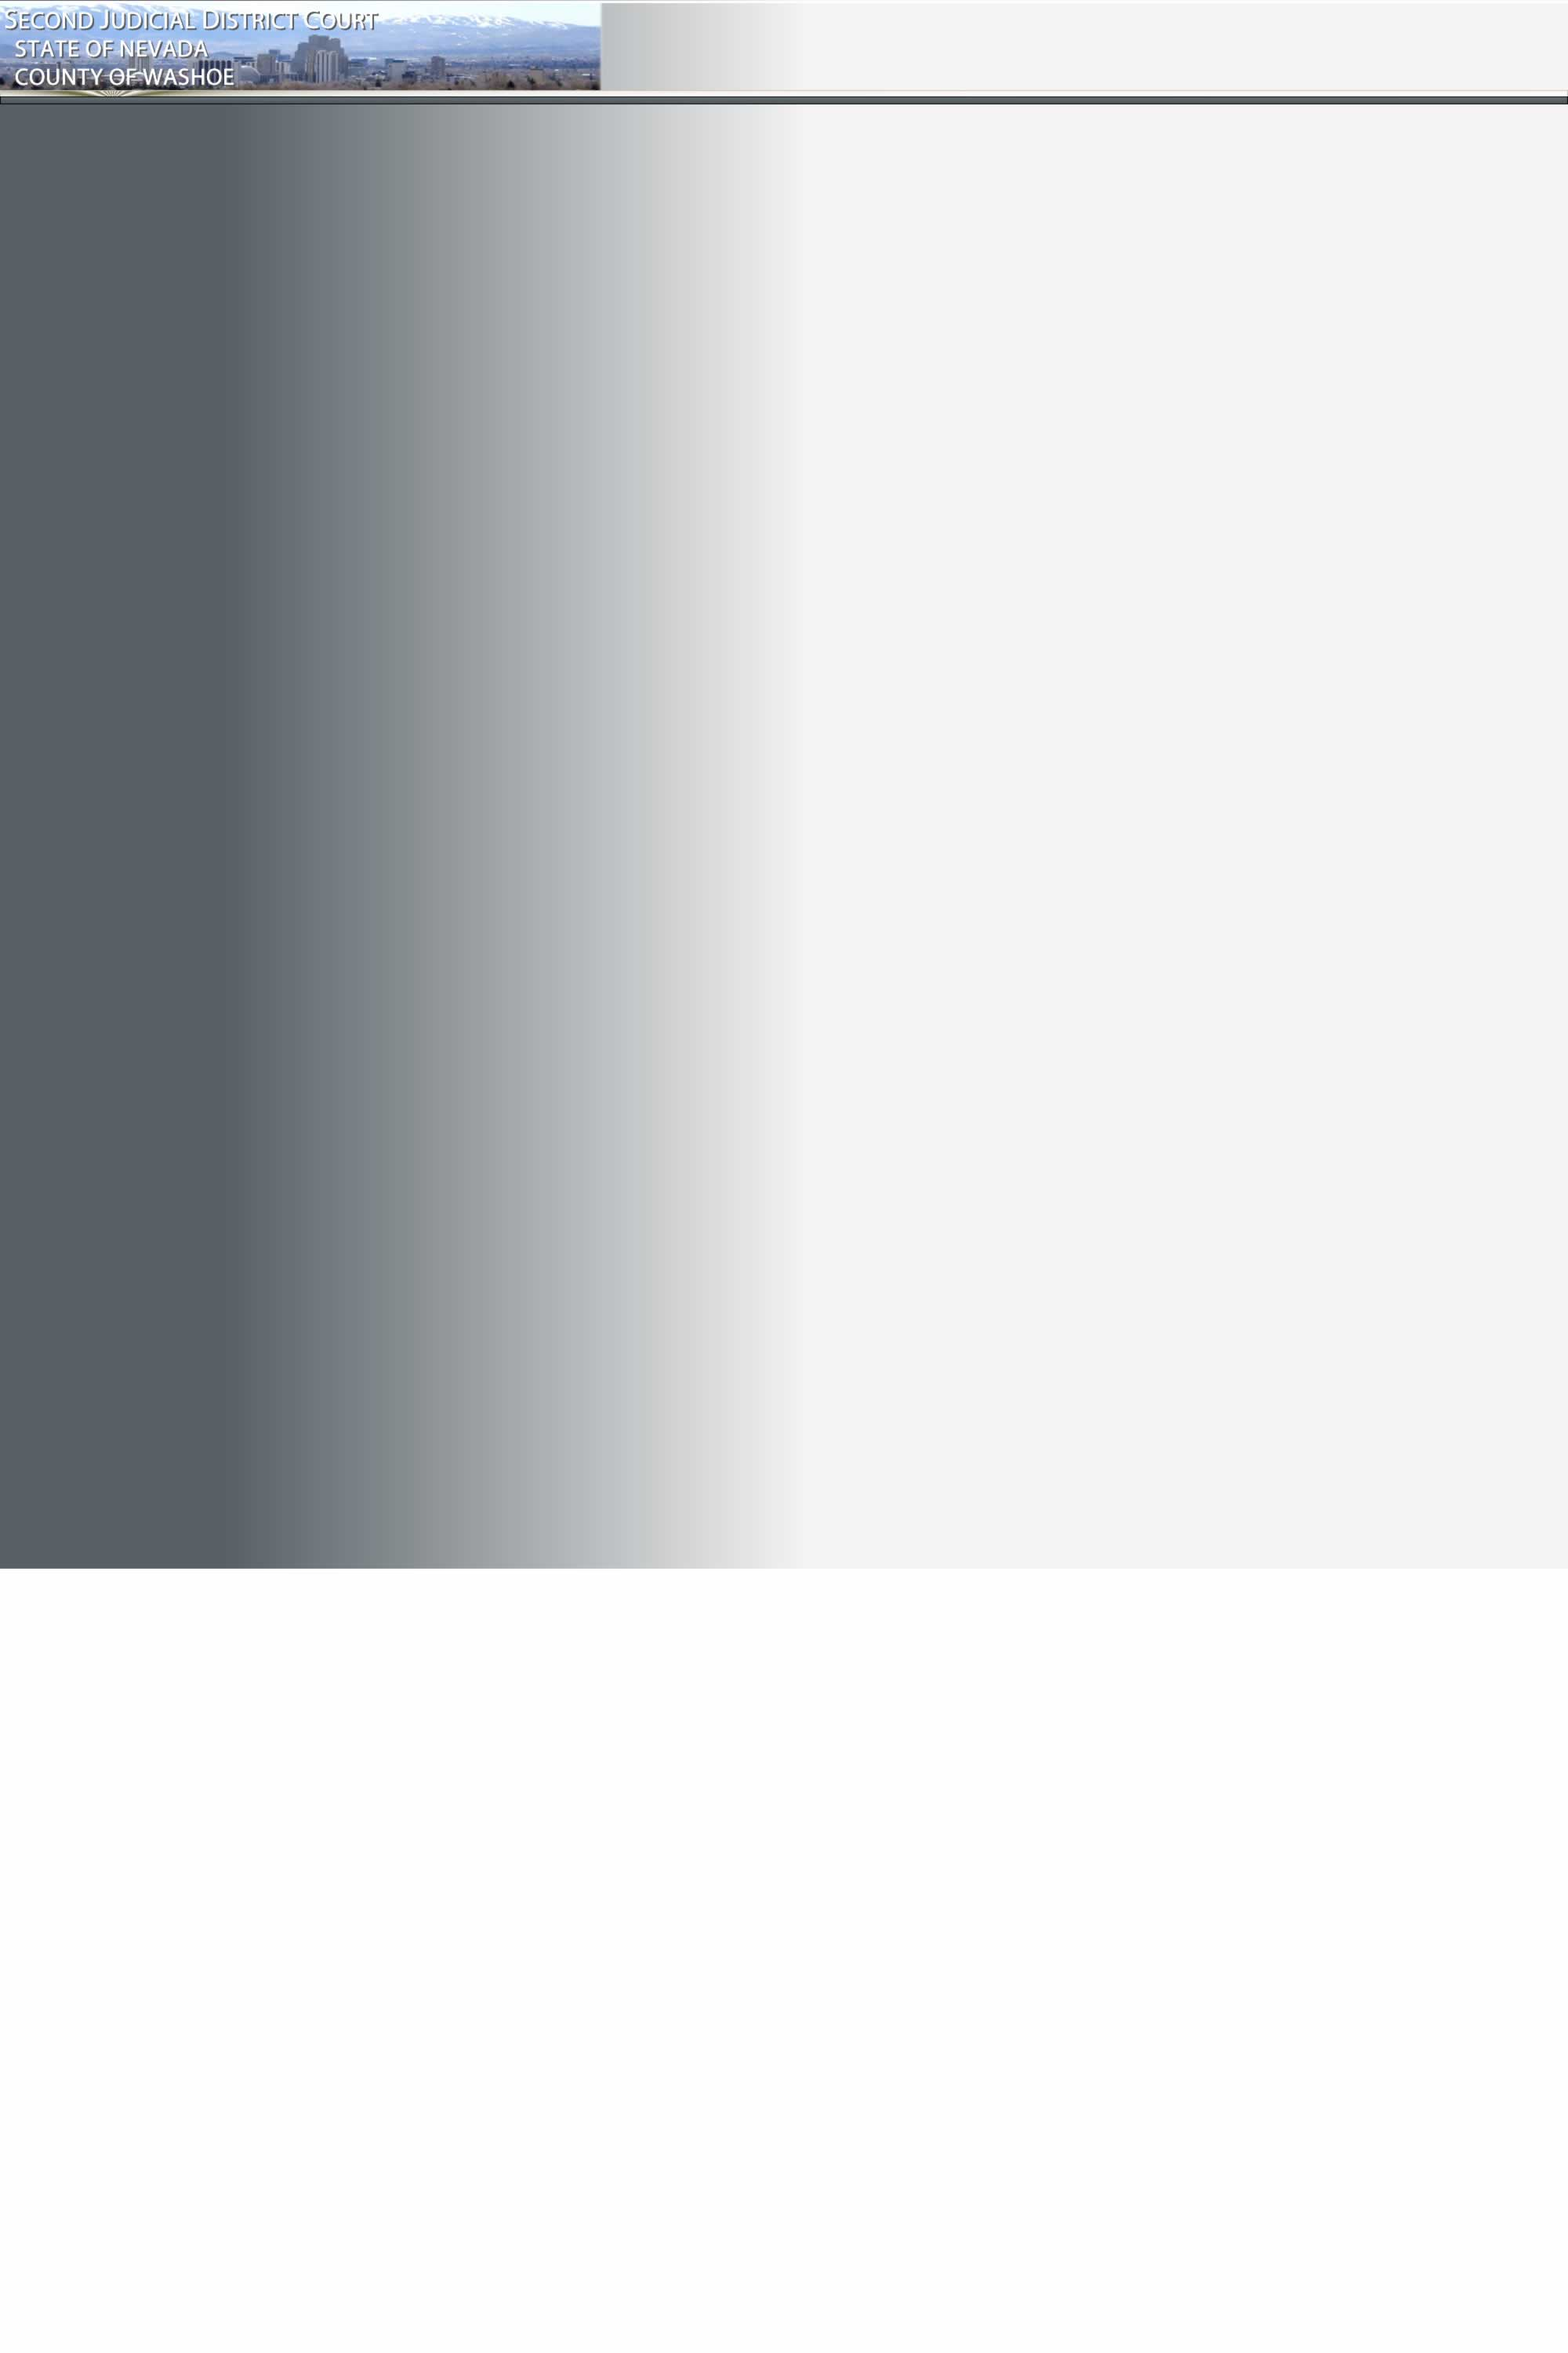
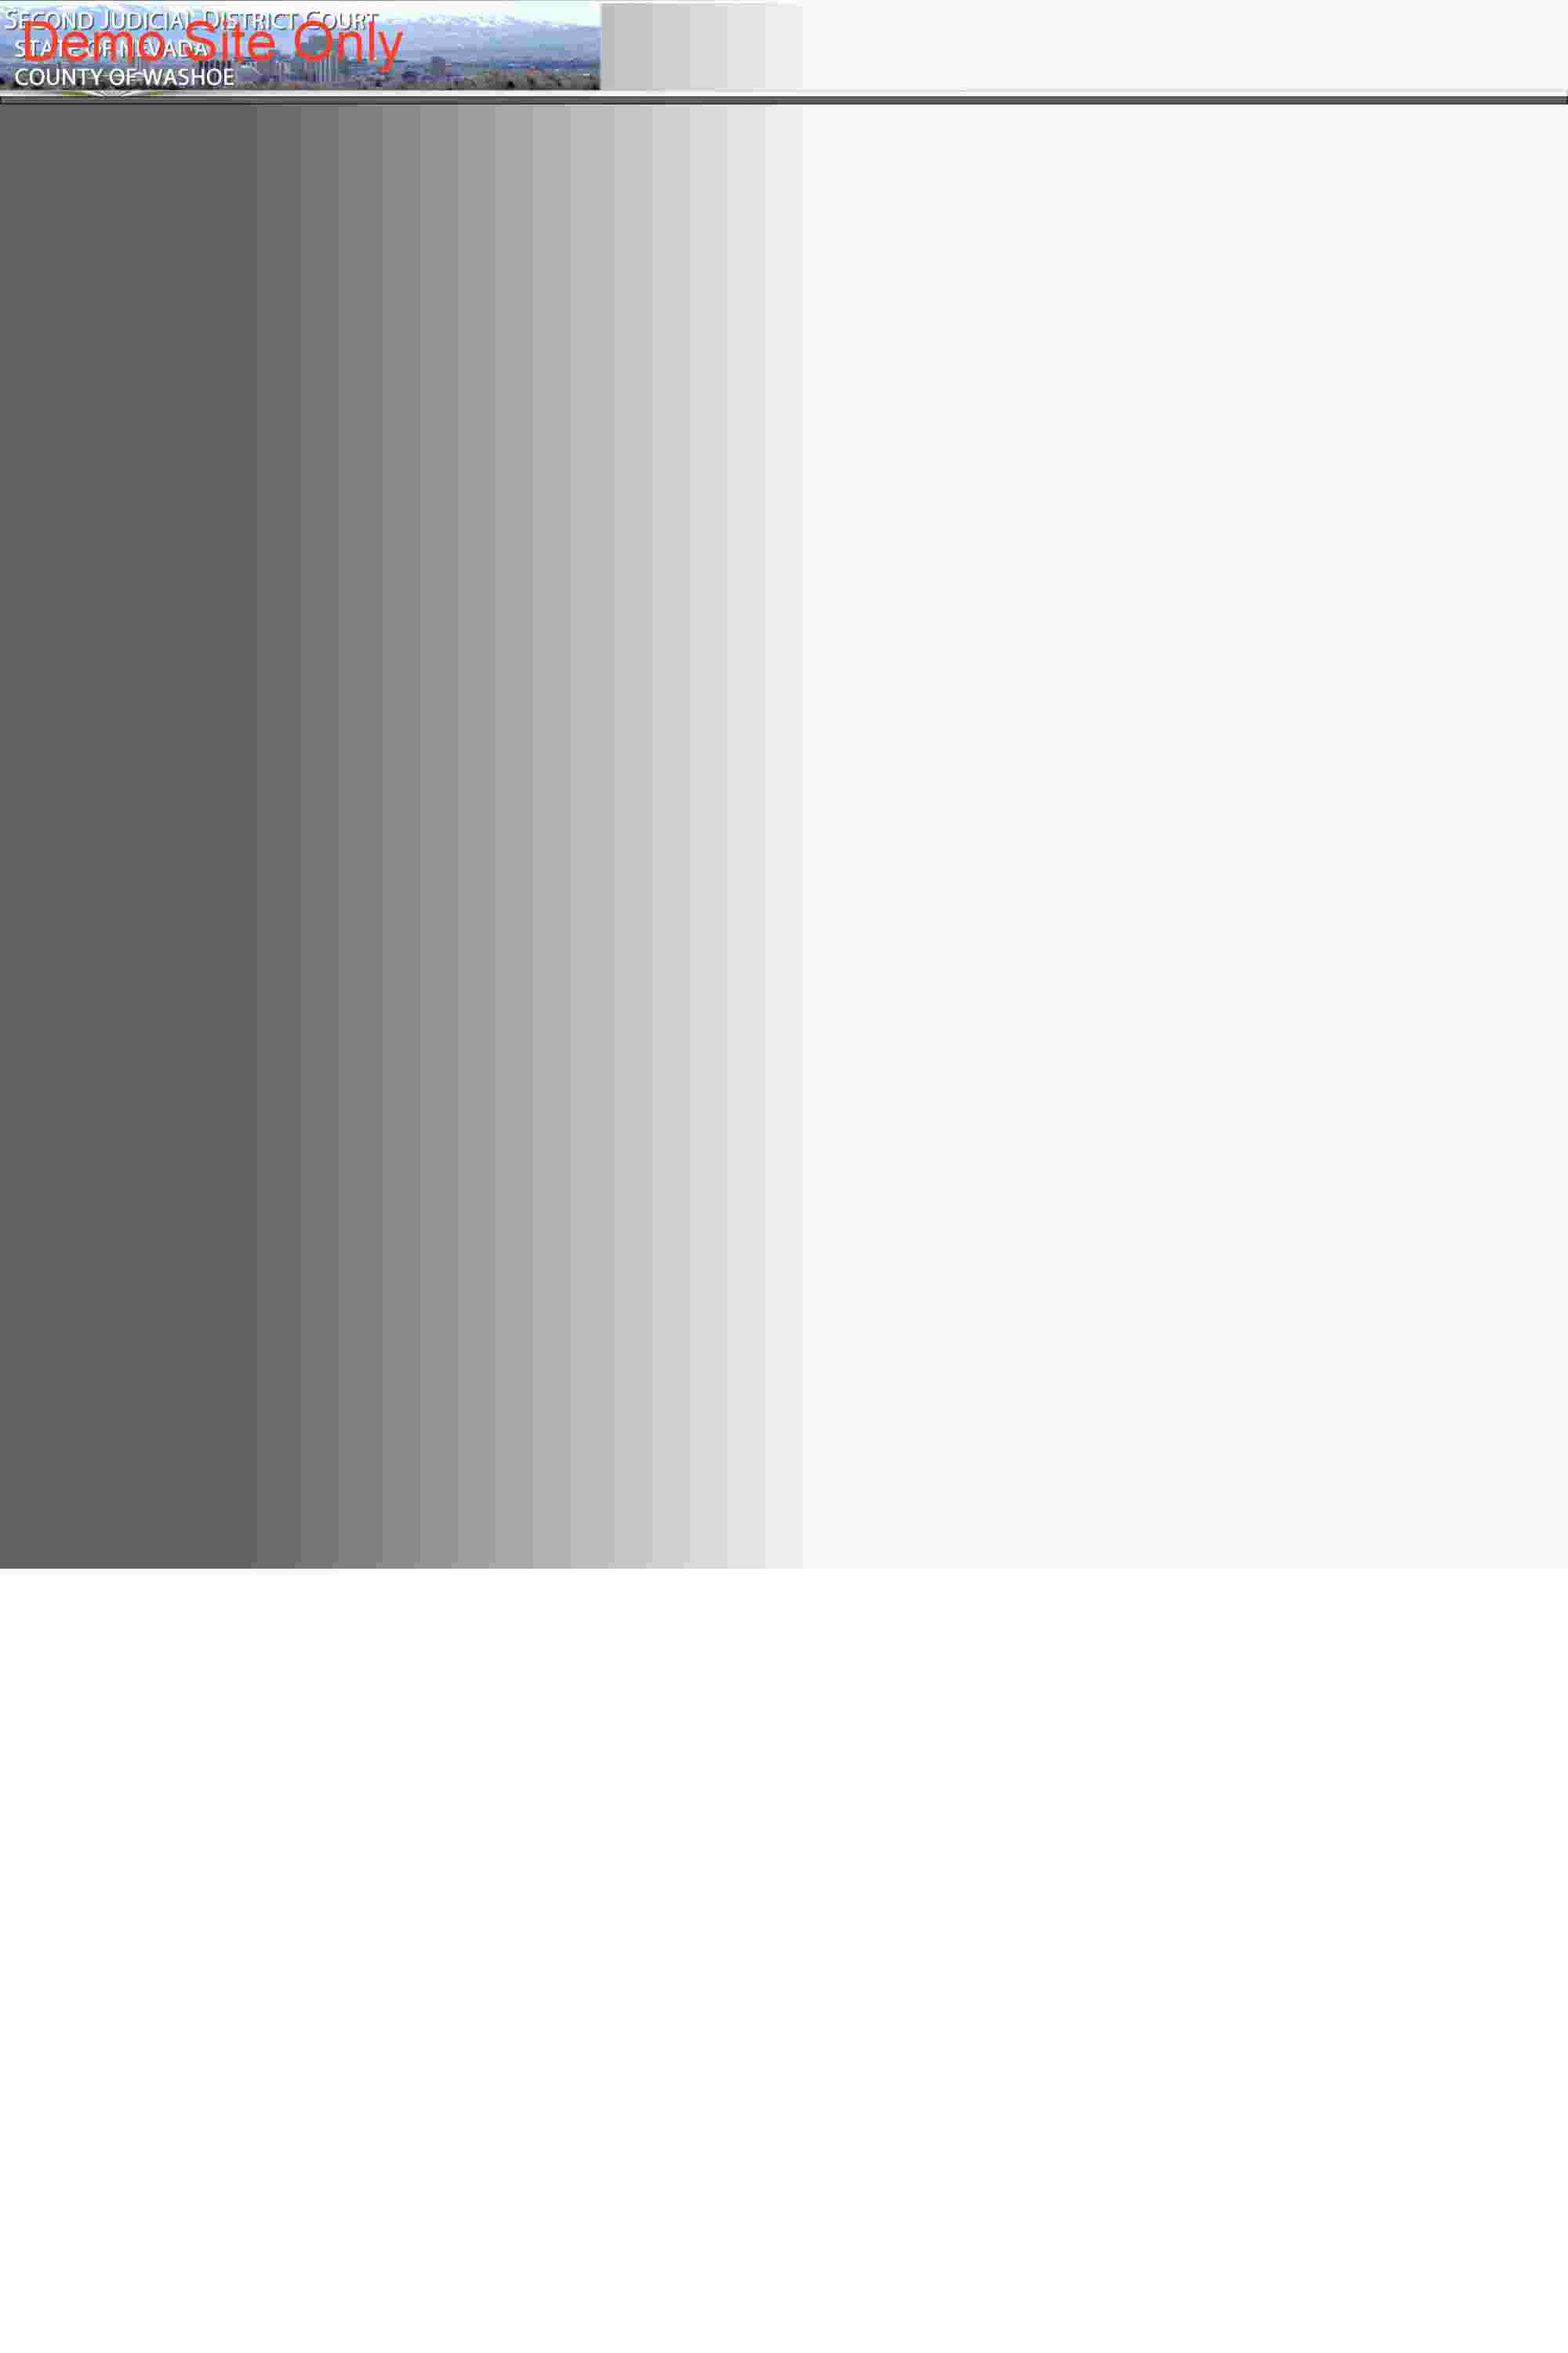
added demo messages to displayed data

Changed region(s): [[0.0, 0.0, 0.279, 0.062]]

diff --git a/local_changes/location.html b/local_changes/location.html
@@ -1,7 +1,7 @@
 <html>
 <head>
     <meta http-equiv="Content-Type" content="text/html; charset=utf-8" />
-    <title>Second Judicial District Court</title>
+    <title>Demo of Second Judicial District Court</title>
     <link href="p7iq/p7iqGlobal_basic.css" rel="stylesheet" type="text/css" />
     <script type="text/javascript" src="p7tmm/p7TMMscripts.js"></script>
     <link href="p7tmm/p7TMM04.css" rel="stylesheet" type="text/css" media="all" />
@@ -15,7 +15,7 @@
       <img src="local_changes/Renoskyline.gif" alt="Header Image" width="450px" height="226px">
     </div>
     <div class="hdrtext">
-      Second Judicial Court<br>
+      Demo of Second Judicial Court<br>
       State of Nevada<br>
       County of Washoe
     </div>

diff --git a/local_changes/local_changes.css b/local_changes/local_changes.css
@@ -80,7 +80,7 @@ body {
 	text-align: center;
 }
 
-#contact {
+.contact {
 	width:50%;
 	margin-left: auto;
     margin-right: auto;
@@ -103,6 +103,22 @@ body {
 	width: 100% !important;
 	height: 100% !important;
 }
+
+/* antique devices */
+/*@media only screen and (min-width: 100px) {
+	.column {
+		float: left;
+	}
+	.center {
+		width: 100%;
+	}
+	.left {
+		width: 100%; 
+	}
+	.right {
+		display: none;
+	}
+}*/
 
 /* phones to tablets */
 @media only screen and (min-width: 481px) {
